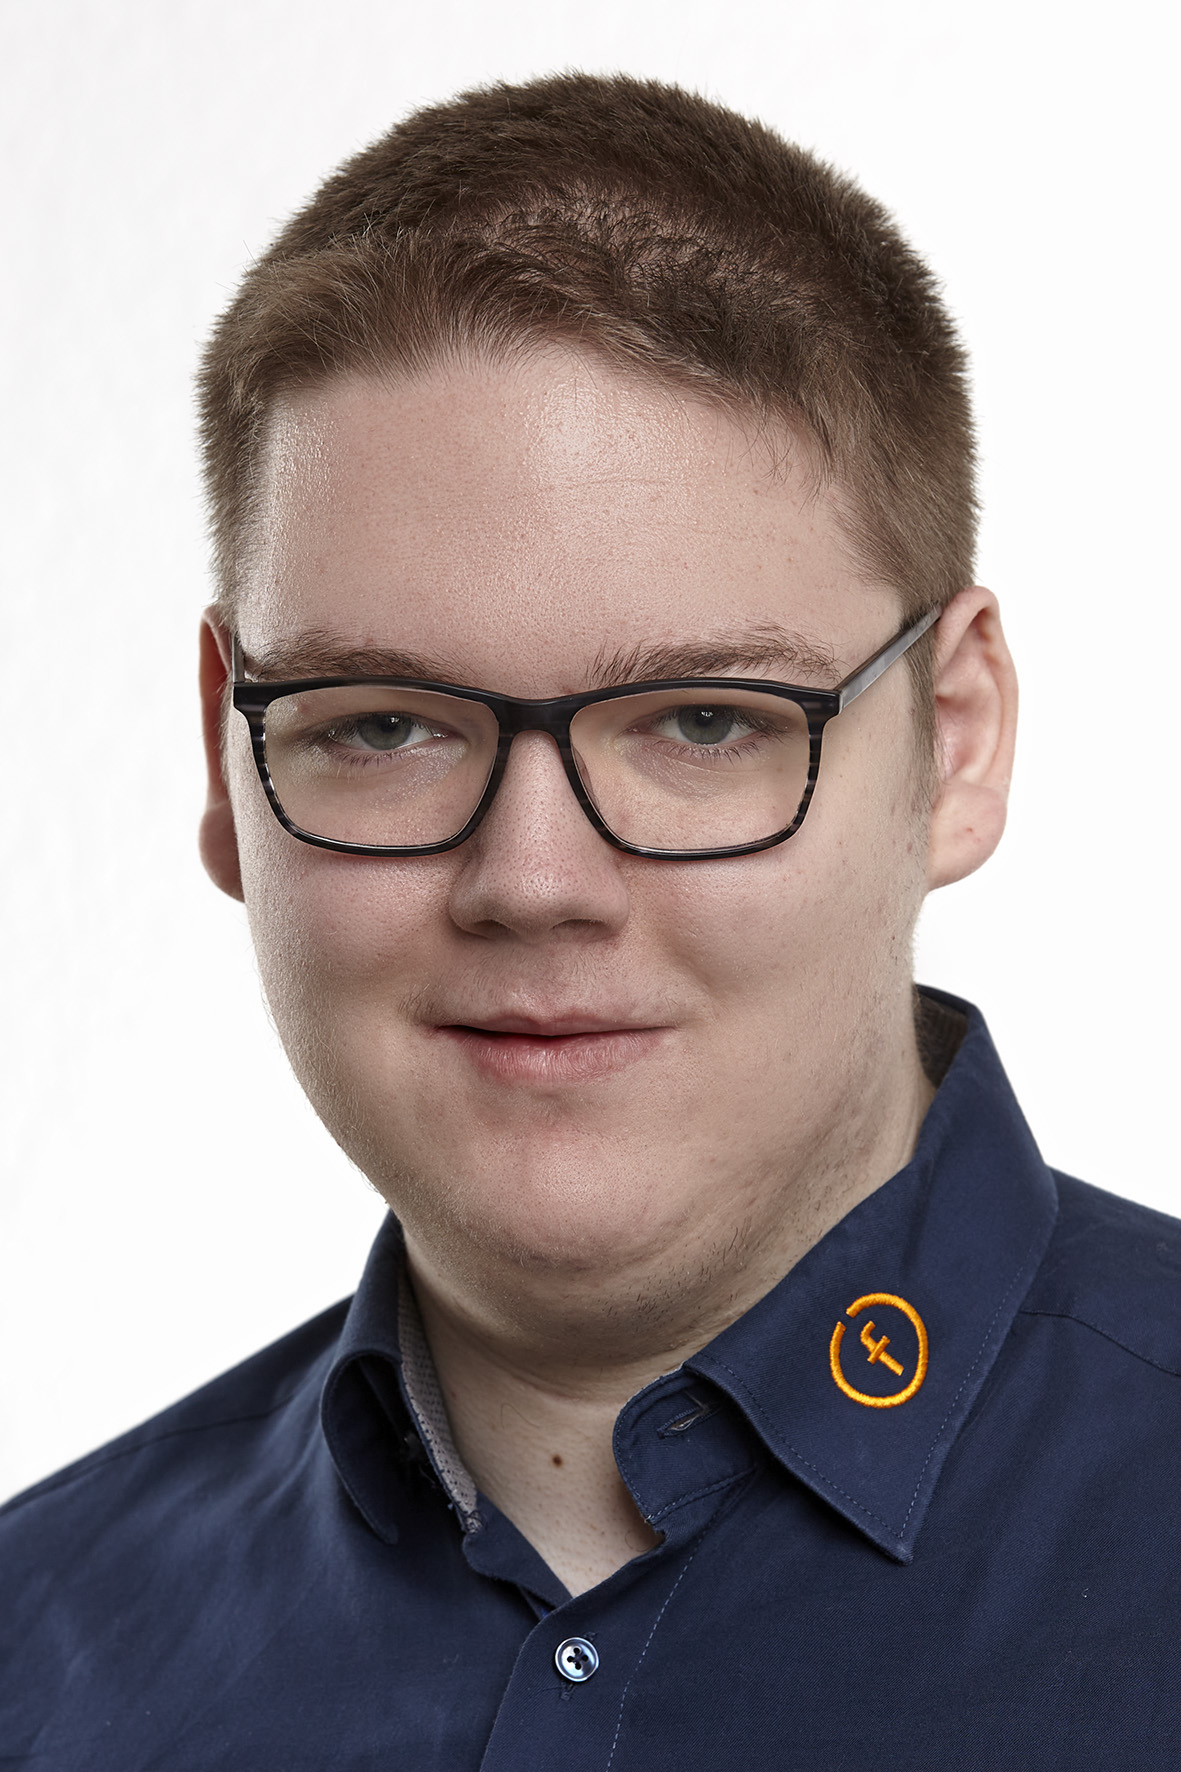
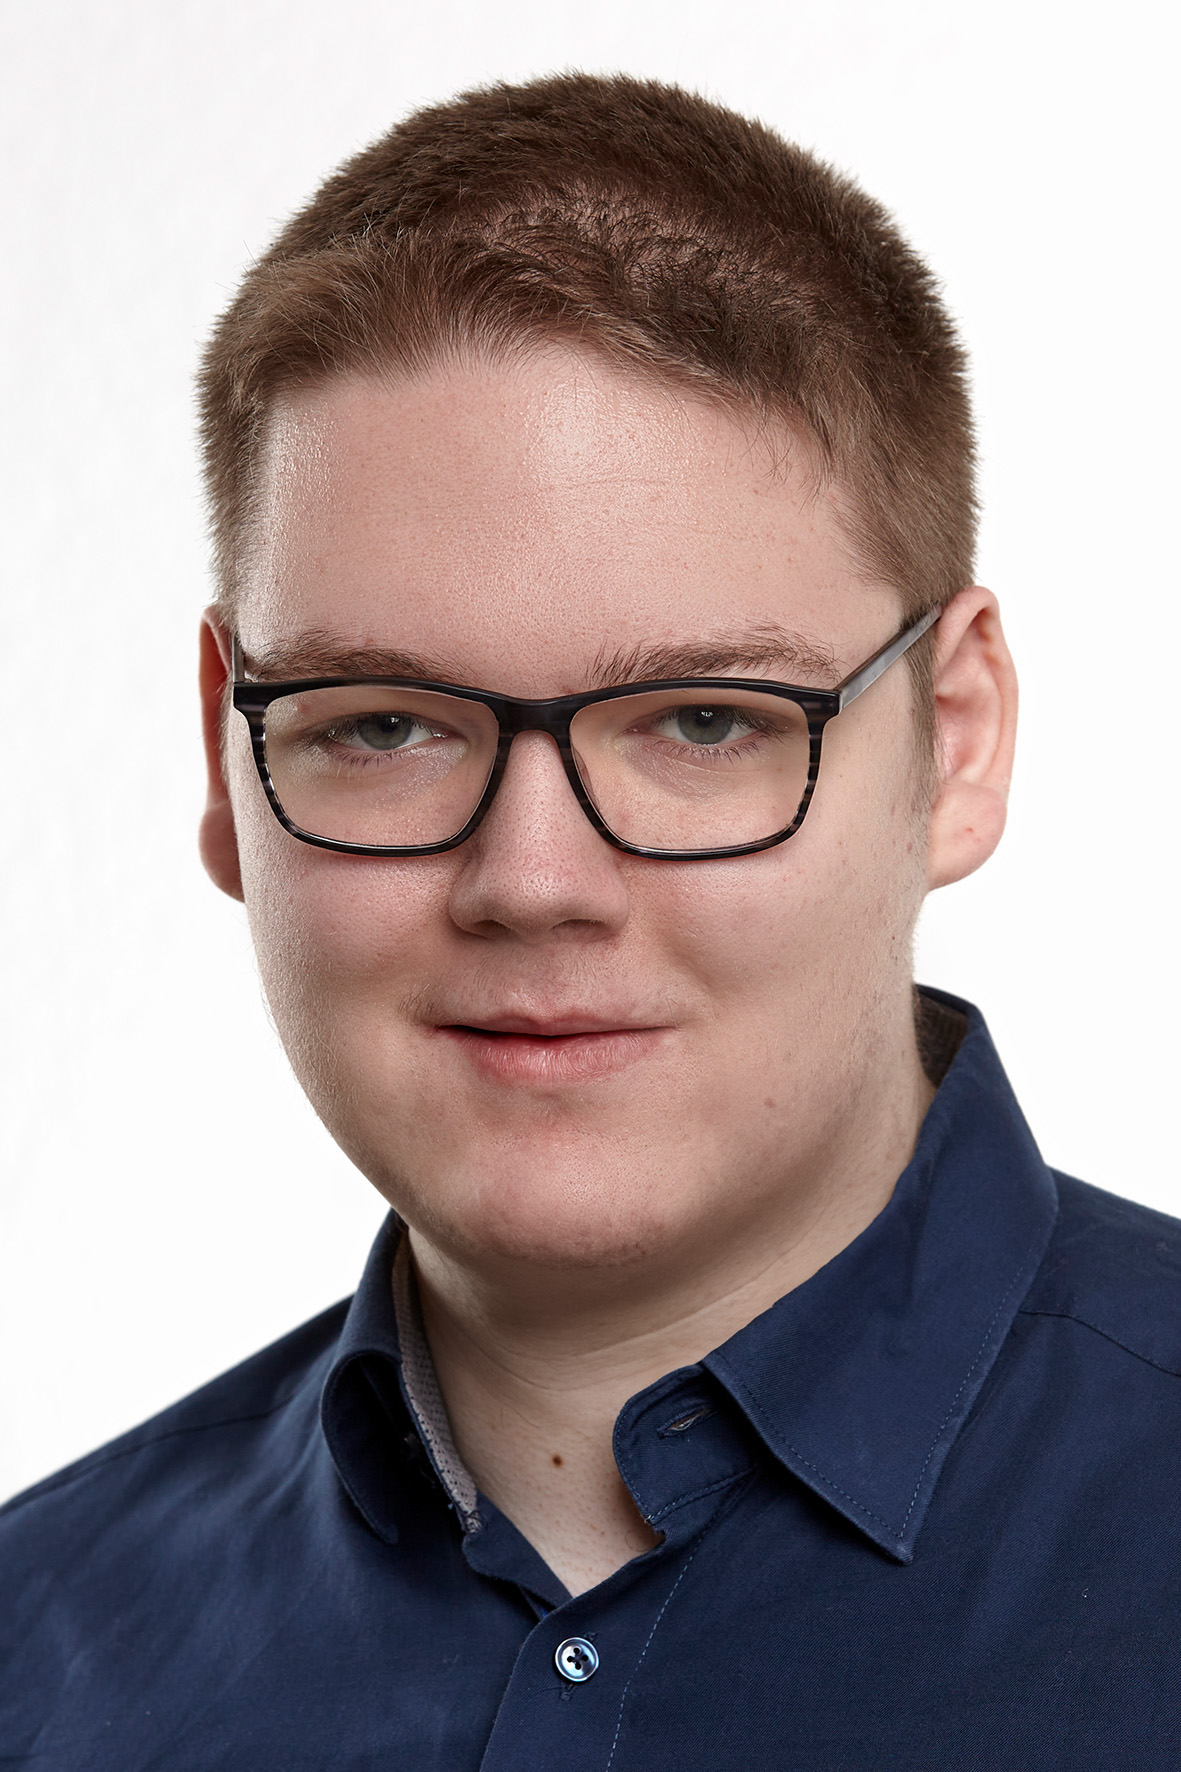
updated age & pic

Changed region(s): [[0.3048, 0.6518, 0.7925, 0.807]]

diff --git a/index.html b/index.html
@@ -176,7 +176,7 @@
               <ul class="list-style-2 list-style-light text-light">
                 <li><span class="font-weight-600 mr-2">Name:</span>Moritz Mantel</li>
                 <li><span class="font-weight-600 mr-2">Email:</span><a href="mailto:kontakt@moritz-mantel.de">kontakt@moritz-mantel.de</a></li>
-                <li><span class="font-weight-600 mr-2">Age:</span>20</li>
+                <li><span class="font-weight-600 mr-2">Age:</span>21</li>
                 <li class="border-0"><span class="font-weight-600 mr-2">From:</span>Karlstadt, Germany</li>
               </ul>
               <a href="https://moritz-mantel.de/images/CV.pdf" class="btn btn-primary rounded-pill smooth-scroll">Download CV</a> </div>
